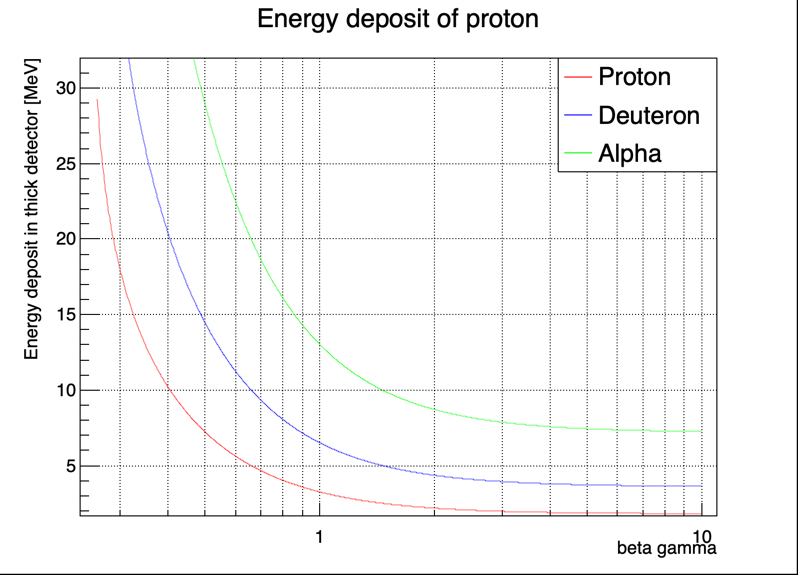
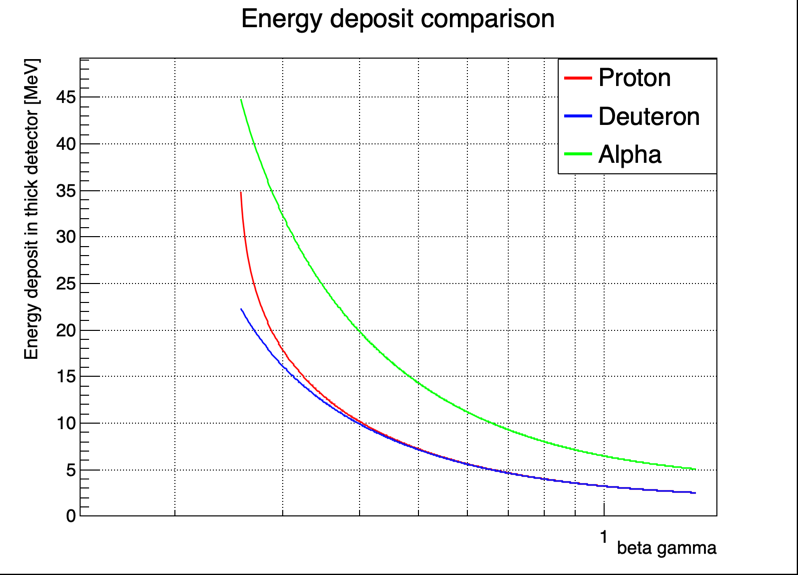
a

diff --git a/scripts/rad_detect_2/energy_deposit_beta_gamma.C b/scripts/rad_detect_2/energy_deposit_beta_gamma.C
@@ -35,8 +35,8 @@
 Double_t energy_deposit_beta_gamma(){
     Double_t beta_gamma = 0.0;
     Double_t step_beta_gamma = 0.001;
-    Double_t beta_gamma_min = 0.26;
-    Double_t beta_gamma_max = 10.0;
+    Double_t beta_gamma_min = 0.255;
+    Double_t beta_gamma_max = sqrt(2.0);
 
     Double_t m_proton = 0.938272*1000.0;
     Double_t m_deuteron = 1.875612*1000.0;
@@ -67,7 +67,20 @@ Double_t energy_deposit_beta_gamma(){
     Double_t energy_deposit_thin_max = 0.0, energy_deposit_thick_max = 0.0, energy_deposit_thin_min = 1e5, energy_deposit_thick_min = 1e5;
     for(Int_t particle_id=0; particle_id<3; particle_id++){
         mass_buf = mass_list[particle_id];
-        charge_buf = pow(2.0, particle_id); // 1 for proton, 2 for deuteron, 4 for alpha
+
+        if(particle_id == 0){
+            charge_buf = 1.0; // 1 for proton
+        }
+        else if(particle_id == 1){
+            charge_buf = 1.0; // 1 for deuteron
+        }
+        else if(particle_id == 2){
+            charge_buf = 2.0; // 2 for alpha
+        }
+        else{
+            charge_buf = 0.0;
+        }
+
         beta_gamma = beta_gamma_min;
         // beta_gamma = 0.1;
 
@@ -105,6 +118,12 @@ Double_t energy_deposit_beta_gamma(){
                 }
                 else{
                     beta_buf = sqrt(1-pow(mass_buf/particle_energy_buf, 2));
+                }
+                if(energy_deposit_thick_buf > energy_deposit_thick_max){
+                    energy_deposit_thick_max = energy_deposit_thick_buf;
+                }
+                if(energy_deposit_thick_buf < energy_deposit_thick_min){
+                    energy_deposit_thick_min = energy_deposit_thick_buf;
                 }
                 if(step % 50 == 0){
                     printf("\tparticle: %f MeV/c2, incident beta gamma: %f, num of detector passed: %d, total energy: %f = %f * %f\n", mass_list[particle_id], beta_gamma, n_detector+1, particle_energy_buf, mass_buf, 1.0/sqrt(1-beta_buf*beta_buf));
@@ -156,35 +175,45 @@ Double_t energy_deposit_beta_gamma(){
     TGraph *graph2 = new TGraph(E_thin_detector[1].size(), &beta_gamma_list[0], &E_thick_detector[1][0]);
     TGraph *graph3 = new TGraph(E_thin_detector[2].size(), &beta_gamma_list[0], &E_thick_detector[2][0]);
     
-    graph1->SetTitle("Energy deposit of proton");
+    graph1->SetTitle("Energy deposit comparison");
     graph1->GetXaxis()->SetTitle("beta gamma");
     graph1->GetYaxis()->SetTitle("Energy deposit in thick detector [MeV]");
     graph1->SetMarkerStyle(20);
     graph1->SetMarkerSize(0.5);
     graph1->SetLineColor(kRed);
+    graph1->GetYaxis()->SetRangeUser(0, energy_deposit_thick_max*1.1);
+    graph1->GetYaxis()->SetLimits(0, energy_deposit_thick_max*1.1);
+    graph1->SetLineWidth(3);
 
-    graph2->SetTitle("Energy deposit of deuteron");
+    graph2->SetTitle("Energy deposit comparison");
     graph2->GetXaxis()->SetTitle("beta gamma");
     graph2->GetYaxis()->SetTitle("Energy deposit in thick detector [MeV]");
     graph2->SetMarkerStyle(20);
     graph2->SetMarkerSize(0.5);
     graph2->SetLineColor(kBlue);
+    graph2->GetYaxis()->SetRangeUser(0, energy_deposit_thick_max*1.1);
+    graph2->GetYaxis()->SetLimits(0, energy_deposit_thick_max*1.1);
+    graph2->SetLineWidth(3);
 
-    graph3->SetTitle("Energy deposit of alpha");
+    graph3->SetTitle("Energy deposit comparison");
     graph3->GetXaxis()->SetTitle("beta gamma");
     graph3->GetYaxis()->SetTitle("Energy deposit in thick detector [MeV]");
     graph3->SetMarkerStyle(20);
     graph3->SetMarkerSize(0.5);
     graph3->SetLineColor(kGreen);
+    graph3->GetYaxis()->SetRangeUser(0, energy_deposit_thick_max*1.1);
+    graph3->GetYaxis()->SetLimits(0, energy_deposit_thick_max*1.1);
+    graph3->SetLineWidth(3);
 
     TCanvas *c1 = new TCanvas("c1", "Energy deposit", 800, 600);
     c1->SetGrid();
     c1->SetLogx();
     // c1->SetLogy();
 
-    graph1->Draw("AL");
+    graph3->Draw("AL");
+    graph1->Draw("L SAME");
     graph2->Draw("L SAME");
-    graph3->Draw("L SAME");
+    // graph3->Draw("L SAME");
     c1->Update();
 
     TLegend *legend = new TLegend(0.1, 0.7, 0.3, 0.9);

diff --git a/scripts/rad_detect_2/energy_deposit_beta.C b/scripts/rad_detect_2/energy_deposit_beta.C
@@ -35,8 +35,8 @@
 Double_t energy_deposit_beta(){
     Double_t beta_gamma = 0.0;
     Double_t step_beta_gamma = 0.001;
-    Double_t beta_gamma_min = 0.252;
-    Double_t beta_gamma_max = 10.0;
+    Double_t beta_gamma_min = 0.255;
+    Double_t beta_gamma_max = sqrt(2.0);
 
     Double_t m_proton = 0.938272*1000.0;
     Double_t m_deuteron = 1.875612*1000.0;
@@ -165,38 +165,46 @@ Double_t energy_deposit_beta(){
     TGraph *graph2 = new TGraph(E_thin_detector[1].size(), &beta_list[0], &E_thick_detector[1][0]);
     TGraph *graph3 = new TGraph(E_thin_detector[2].size(), &beta_list[0], &E_thick_detector[2][0]);
     
-    graph1->SetTitle("Energy deposit of proton");
+    graph1->SetTitle("Energy deposit comparison");
     graph1->GetXaxis()->SetTitle("beta");
     graph1->GetYaxis()->SetTitle("Energy deposit in thick detector [MeV]");
     graph1->SetMarkerStyle(20);
     graph1->SetMarkerSize(0.5);
     graph1->SetLineColor(kRed);
     graph1->SetLineWidth(3);
+    graph1->GetYaxis()->SetRangeUser(0, energy_deposit_thick_max*1.1);
+    graph1->GetYaxis()->SetLimits(0, energy_deposit_thick_max*1.1);
+    graph1->SetLineWidth(3);
 
-    graph2->SetTitle("Energy deposit of deuteron");
+    graph2->SetTitle("Energy deposit comparison");
     graph2->GetXaxis()->SetTitle("beta");
     graph2->GetYaxis()->SetTitle("Energy deposit in thick detector [MeV]");
     graph2->SetMarkerStyle(20);
     graph2->SetMarkerSize(0.5);
     graph2->SetLineColor(kBlue);
     graph2->SetLineWidth(3);
+    graph2->GetYaxis()->SetRangeUser(0, energy_deposit_thick_max*1.1);
+    graph2->GetYaxis()->SetLimits(0, energy_deposit_thick_max*1.1);
 
-    graph3->SetTitle("Energy deposit of alpha");
+    graph3->SetTitle("Energy deposit comparison");
     graph3->GetXaxis()->SetTitle("beta");
     graph3->GetYaxis()->SetTitle("Energy deposit in thick detector [MeV]");
     graph3->SetMarkerStyle(20);
     graph3->SetMarkerSize(0.5);
     graph3->SetLineColor(kGreen);
     graph3->SetLineWidth(3);
+    graph3->GetYaxis()->SetRangeUser(0, energy_deposit_thick_max*1.1);
+    graph3->GetYaxis()->SetLimits(0, energy_deposit_thick_max*1.1);
 
     TCanvas *c1 = new TCanvas("c1", "Energy deposit", 800, 600);
     c1->SetGrid();
     // c1->SetLogx();
     // c1->SetLogy();
 
-    graph1->Draw("AL");
+    graph3->Draw("AL");
+    graph1->Draw("L SAME");
     graph2->Draw("L SAME");
-    graph3->Draw("L SAME");
+    // graph3->Draw("L SAME");
     c1->Update();
 
     TLegend *legend = new TLegend(0.1, 0.7, 0.3, 0.9);

diff --git a/scripts/rad_detect_2/energy_deposit.C b/scripts/rad_detect_2/energy_deposit.C
@@ -35,8 +35,8 @@
 Double_t energy_deposit(){
     Double_t beta_gamma = 0.0;
     Double_t step_beta_gamma = 0.001;
-    Double_t beta_gamma_min = 0.252;
-    Double_t beta_gamma_max = 10.0;
+    Double_t beta_gamma_min = 0.255;
+    Double_t beta_gamma_max = sqrt(2.0);
 
     Double_t m_proton = 0.938272*1000.0;
     Double_t m_deuteron = 1.875612*1000.0;
